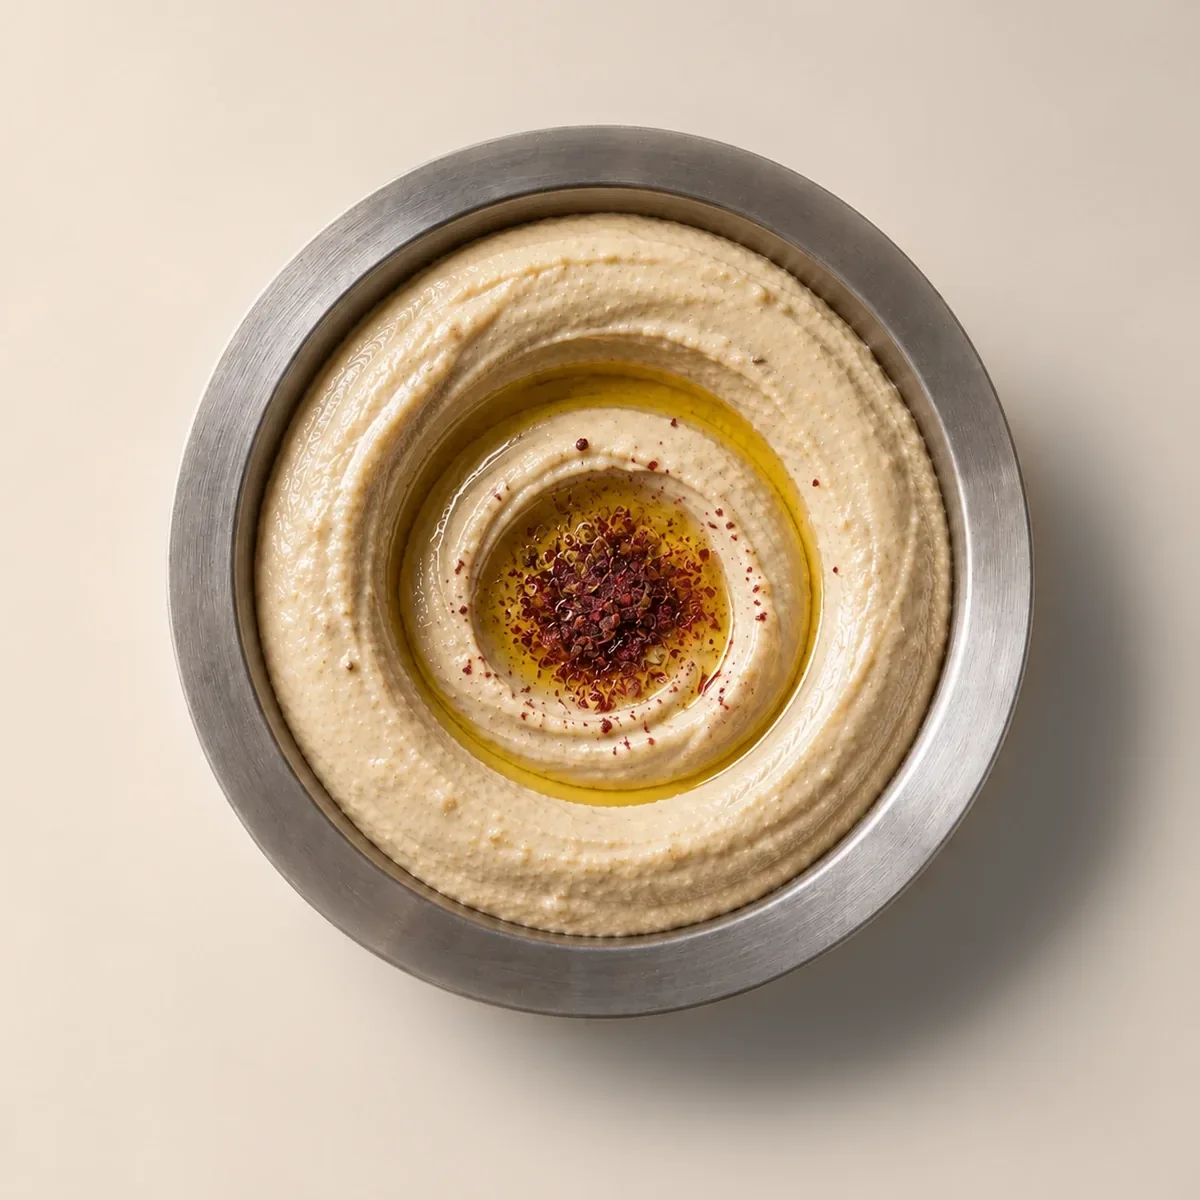
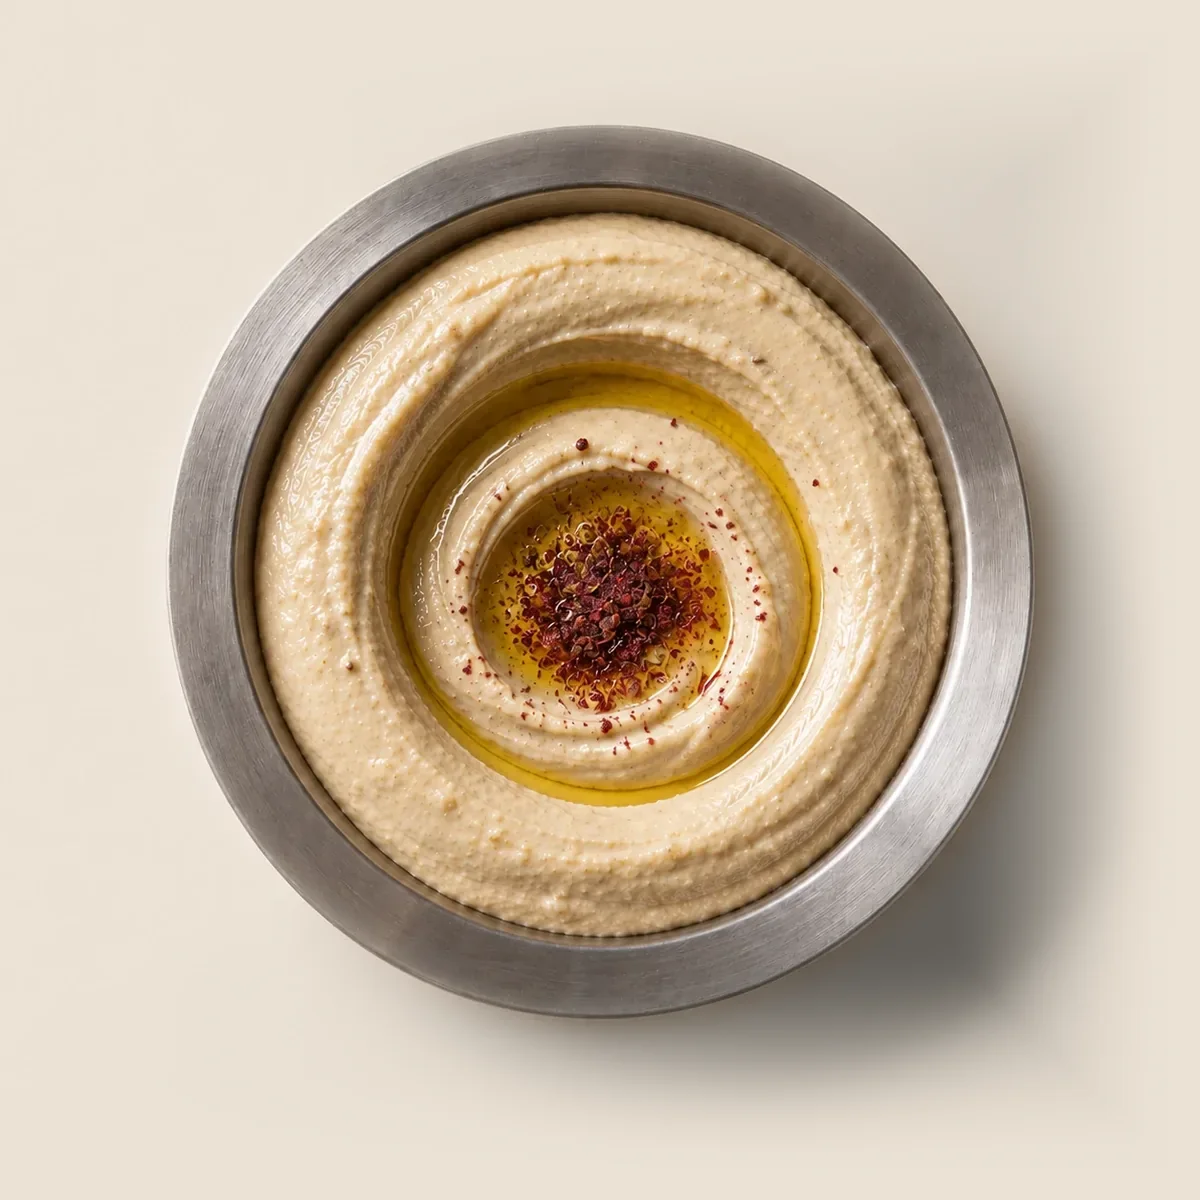
Palette resserrée : un seul sable accordé aux photos, un seul bordeaux
- Fond des photos ramené exactement au sable du site (#ECE3D6), avec
  fondu sur les bords et ombres naturelles conservées
- Sable réservé aux sections photo (bandeau et carte), Formules et
  Commander repassent sur ivoire
- Même bordeaux pour les témoignages et le pied de page

Claude-Session: https://claude.ai/code/session_019j86bniTc8T7tZrnjTg8MX

Changed region(s): [[0.4008, 0.0, 1.0, 1.0]]

diff --git a/index.html b/index.html
@@ -51,6 +51,7 @@
   --bordeaux: #5A1424;
   --bordeaux-2: #46101C;
   --or: #A88A5C;
+  --sable: #ECE3D6; /* même teinte que le fond des photos */
   --filet: rgba(168, 138, 92, .38);
   --serif: 'Libre Caslon Display', 'Big Caslon', Georgia, serif;
   --sans: 'Helvetica Neue', Helvetica, Arial, sans-serif;
@@ -167,8 +168,9 @@ footer a:hover { color: var(--bordeaux); }
 
 
 /* Rythme de couleur */
-.sable { background: #F1E9DD; border-top: 0; }
-.sable-suite { padding-top: 0; }
+.sable { background: var(--sable); border-top: 0; }
+.sable + .section { border-top: 0; }
+.bandeau { background: var(--sable); }
 .bordeaux { background: var(--bordeaux); color: var(--ivoire); border-top: 0; }
 .bordeaux .label { color: var(--ivoire); }
 .bordeaux .avis { border-top-color: rgba(217, 194, 156, .35); }
@@ -177,7 +179,7 @@ footer a:hover { color: var(--bordeaux); }
 .bordeaux :focus-visible { outline-color: var(--ivoire); }
 .sable + .bordeaux, .bordeaux + .section { border-top: 0; }
 
-footer { background: #3A0D17; color: rgba(251, 248, 243, .7); border-top: 0; padding: clamp(48px, 6vw, 80px) 0 32px; }
+footer { background: var(--bordeaux); color: rgba(251, 248, 243, .7); border-top: 0; padding: clamp(48px, 6vw, 80px) 0 32px; }
 .foot-mark { display: block; font: 400 clamp(44px, 7vw, 104px)/1 var(--serif); color: var(--ivoire); text-decoration: none; letter-spacing: -.01em; margin-bottom: clamp(32px, 4vw, 56px); }
 footer .foot-bottom { position: relative; padding-top: 24px; }
 footer .foot-bottom::before { content: ''; position: absolute; top: 0; left: var(--gutter); right: var(--gutter); border-top: 1px solid rgba(217, 194, 156, .25); }
@@ -259,7 +261,7 @@ footer a:hover { color: var(--ivoire); }
     </div>
   </section>
 
-  <section class="section" id="carte" aria-label="La carte">
+  <section class="section sable" id="carte" aria-label="La carte">
     <div class="wrap grid">
       <h2 class="label">La carte</h2>
       <div class="content">
@@ -281,7 +283,7 @@ footer a:hover { color: var(--ivoire); }
     </div>
   </section>
 
-  <section class="section sable" id="formules" aria-label="Formules">
+  <section class="section" id="formules" aria-label="Formules">
     <div class="wrap grid">
       <h2 class="label">Formules</h2>
       <div class="content">
@@ -307,7 +309,7 @@ footer a:hover { color: var(--ivoire); }
     </div>
   </section>
 
-  <section class="section sable sable-suite" id="commander" aria-label="Commander">
+  <section class="section" id="commander" aria-label="Commander">
     <div class="wrap grid">
       <h2 class="label">Commander</h2>
       <div class="content">

diff --git a/outils/harmoniser-photos.py b/outils/harmoniser-photos.py
@@ -1,4 +1,5 @@
 # Harmonise les photos d'origine : même cadrage d'assiette, même teinte de fond, veines atténuées.
+# Usage : python3 outils/harmoniser-photos.py <dossier des originaux 1200 px> <sortie> outils/assiettes.txt ECE3D6
 import sys, os, numpy as np
 from PIL import Image, ImageFilter, ImageDraw
 src, out = sys.argv[1], sys.argv[2]
@@ -31,6 +32,12 @@ M = bg_mask()[..., None]
 # teinte cible : moyenne des fonds unis, mesurée loin de l'assiette
 corner = np.zeros((N, N), bool); corner[:150, :] = True; corner[-120:, :] = True
 target = np.mean([np.asarray(load(k), dtype=float)[corner].mean(0) for k in PLAIN], 0)
+if len(sys.argv) > 4:  # teinte imposée, ex. ECE3D6 : la même que le fond des sections du site
+    h = sys.argv[4]; target = np.array([int(h[i:i + 2], 16) for i in (0, 2, 4)], dtype=float)
+# fondu vers la teinte pure sur les bords, pour que la photo se fonde dans la section
+yy, xx = np.mgrid[0:N, 0:N]
+edge = np.minimum.reduce([xx, yy, N - 1 - xx, N - 1 - yy]).astype(float)
+t = np.clip(edge / 260, 0, 1); EDGE = t * t * (3 - 2 * t)  # fondu progressif
 print('cible', target.round(1))
 
 for f in sorted(os.listdir(src)):
@@ -43,8 +50,10 @@ for f in sorted(os.listdir(src)):
     low = num / np.maximum(den, 1e-3)
     lum = lambda x: x @ np.array([.299, .587, .114])
     detail = lum(a) - lum(low)                         # veines et grain
-    shade = lum(low) / max(lum(low)[corner].mean(), 1)  # ombres douces (basse fréquence)
+    ref = np.percentile(lum(low)[hard > .5], 75)          # luminosité typique du fond, hors assiette
+    shade = np.minimum(lum(low) / max(ref, 1), 1.0)         # ne garde que les ombres, jamais d'éclaircissement
     new_bg = target[None, None, :] * shade[..., None] + (detail * .25)[..., None]
+    new_bg = target[None, None, :] * (1 - EDGE[..., None]) + new_bg * EDGE[..., None]
     res = a * (1 - M) + new_bg * M
     Image.fromarray(np.clip(res, 0, 255).astype('uint8')).save(os.path.join(out, slug + '.png'))
     print(slug)
